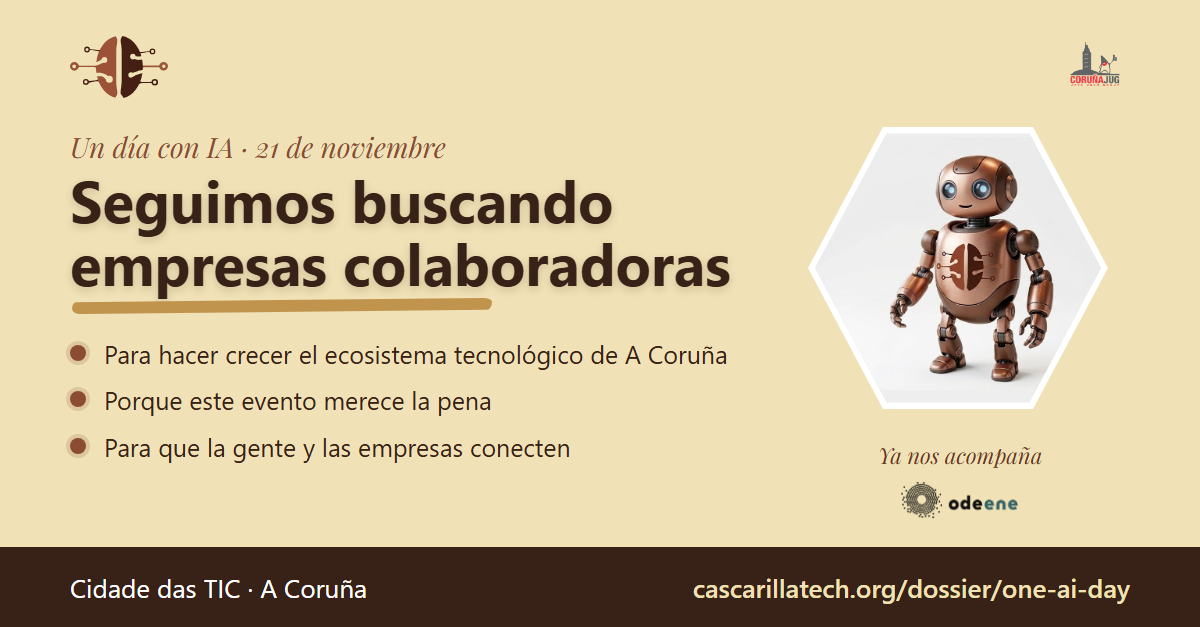
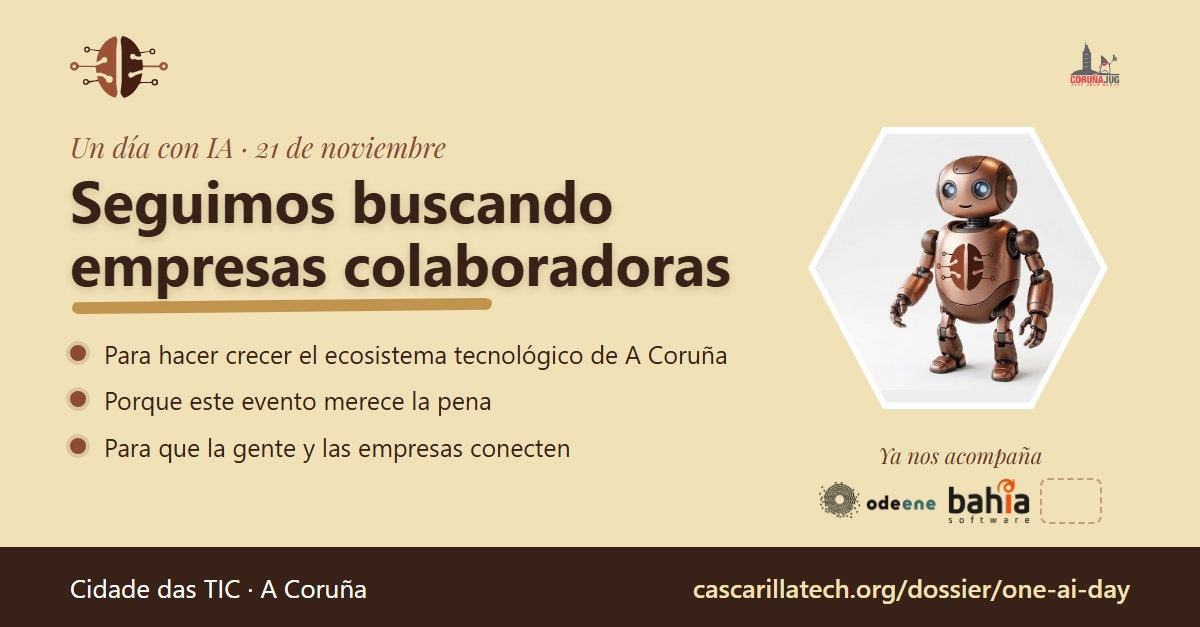
Imaxes de LinkedIn de colaboradoras: engadir Bahía Software a «Xa nos acompaña»

Changed region(s): [[0.6783, 0.7576, 0.8633, 0.8485]]

diff --git a/design/social/colaboradores-un-dia-con-ia.html b/design/social/colaboradores-un-dia-con-ia.html
@@ -24,6 +24,8 @@ li::before{content:"";position:absolute;left:0;top:7px;width:16px;height:16px;bo
 .with{position:absolute;right:70px;top:440px;width:340px;text-align:center}
 .with p{font-family:'PFI',serif;font-style:italic;font-size:22px;color:#6B3622;margin-bottom:8px}
 .with img{height:46px}
+.row{display:flex;align-items:center;justify-content:center;gap:10px}
+.slot{width:62px;height:46px;border:2px dashed rgba(140,75,51,.45);border-radius:8px}
 footer{position:absolute;left:0;bottom:0;width:100%;height:80px;background:#382117;color:#fff;display:flex;align-items:center;justify-content:space-between;padding:0 70px;font-size:26px}
 footer b{color:#f0e2b6;font-weight:600}
 </style></head><body>
@@ -39,6 +41,6 @@ footer b{color:#f0e2b6;font-weight:600}
     <li>Para que la gente y las empresas conecten</li>
   </ul>
   <div class="hex-wrap"><div class="hex"></div><div class="hex-in"><img src="../../public/images/un-dia-con-ia-robot.jpg" alt=""></div></div>
-  <div class="with"><p>Ya nos acompaña</p><img src="../../public/images/poster/sponsors/odeene-color-horizontal.png" alt="Odeene"></div>
+  <div class="with"><p>Ya nos acompaña</p><div class="row"><img src="../../public/images/poster/sponsors/odeene-color-horizontal.png" alt="Odeene"><img src="../../public/images/poster/sponsors/bahia-software-color.png" alt="Bahía Software"><span class="slot"></span></div></div>
   <footer><span>Cidade das TIC · A Coruña</span><b>cascarillatech.org/dossier/one-ai-day</b></footer>
 </div></body></html>

diff --git a/design/social/colaboradores-un-dia-con-ia-gl.html b/design/social/colaboradores-un-dia-con-ia-gl.html
@@ -41,6 +41,6 @@ footer b{color:#f0e2b6;font-weight:600}
     <li>Para conectar con máis persoas e empresas do sector</li>
   </ul>
   <div class="hex-wrap"><div class="hex"></div><div class="hex-in"><img src="../../public/images/un-dia-con-ia-robot.jpg" alt=""></div></div>
-  <div class="with"><p>Xa nos acompaña</p><div class="row"><img src="../../public/images/poster/sponsors/odeene-color-horizontal.png" alt="Odeene"><span class="slot"></span><span class="slot"></span></div></div>
+  <div class="with"><p>Xa nos acompaña</p><div class="row"><img src="../../public/images/poster/sponsors/odeene-color-horizontal.png" alt="Odeene"><img src="../../public/images/poster/sponsors/bahia-software-color.png" alt="Bahía Software"><span class="slot"></span></div></div>
   <footer><span>Cidade das TIC · A Coruña</span><b>cascarillatech.org/dossier/one-ai-day</b></footer>
 </div></body></html>
